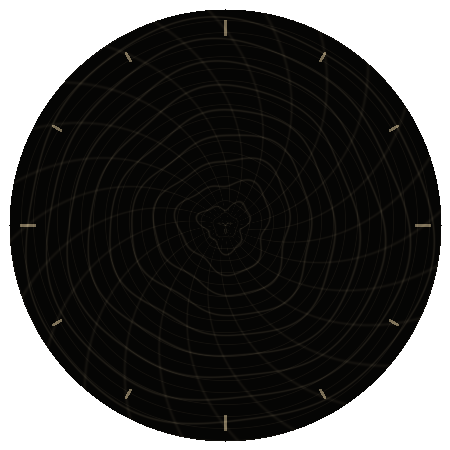
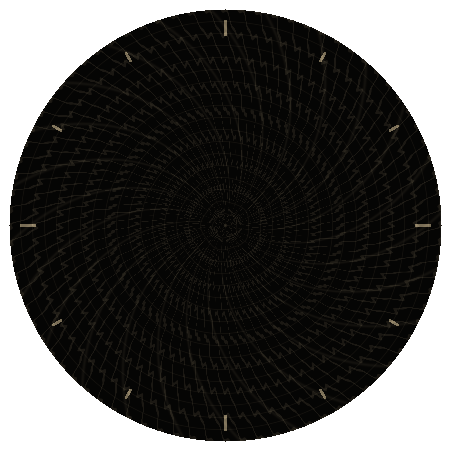
Animate radial moire through continuous plate rotation

Changed region(s): [[0.2178, 0.3422, 0.2489, 0.3733]]

diff --git a/faces/radial-moire/generate_assets.py b/faces/radial-moire/generate_assets.py
@@ -1,32 +1,53 @@
+"""Generate registered engraving and curved slit plates for the moiré face."""
+
 from pathlib import Path
+
 import numpy as np
 from PIL import Image
 
 OUT = Path(__file__).parent / "assets"
 OUT.mkdir(exist_ok=True)
 SIZE = 450
-STATES = 4
+PITCH_COUNT = 80  # One 4.5-degree rotation returns to the same registration.
 y, x = np.mgrid[:SIZE, :SIZE].astype(np.float32)
 cx = cy = SIZE / 2
 dx, dy = x - cx, y - cy
 r = np.hypot(dx, dy)
-angle = np.arctan2(dy, dx)
+angle = np.arctan2(dx, -dy)  # Clockwise from twelve o'clock.
 circle = r <= 216
-field = (r + 5.7 * np.sin(3 * angle + r / 52) + 2.1 * np.sin(7 * angle - r / 79)) / 22.5
-phase = np.mod(field, 1)
-encoded_state = np.minimum(STATES - 1, (phase * STATES).astype(np.int32))
+
+# Curved radial lines repeat exactly every 4.5 degrees, so the rotating plate
+# has no seam when its four-second cycle restarts.
+field = (
+    PITCH_COUNT * angle / (2 * np.pi)
+    + r / 23.5
+    + .17 * np.sin(PITCH_COUNT * angle + r / 48)
+    + .075 * np.sin(2 * PITCH_COUNT * angle - r / 71)
+)
+plate_field = field + .14 * np.sin(3 * angle + r / 59)
+
 
 def smooth(lo, hi, value):
     t = np.clip((value - lo) / (hi - lo), 0, 1)
     return t * t * (3 - 2 * t)
 
-def hand(degrees, length, width):
-    a = np.deg2rad(degrees)
-    sx, sy = np.sin(a), -np.cos(a)
-    along = dx * sx + dy * sy
-    across = np.abs(dx * sy - dy * sx)
+
+def engraving(value, width):
+    """Antialiased ink line around each integer contour of the field."""
+    distance = np.abs(np.mod(value + .5, 1) - .5)
+    return 1 - smooth(width - .025, width + .025, distance)
+
+
+def hand(length, width):
+    along = -dy
+    across = np.abs(dx)
     taper = width * (1 - .53 * np.maximum(0, along) / length)
-    return np.where((along >= -5) & (along <= length), 1 - smooth(taper - 1.6, taper + 1.6, across), 0)
+    return np.where(
+        (along >= -5) & (along <= length),
+        1 - smooth(taper - 1.6, taper + 1.6, across),
+        0,
+    )
+
 
 def rgba(name, red, green, blue, opacity):
     image = np.empty((SIZE, SIZE, 4), dtype=np.uint8)
@@ -36,31 +57,45 @@ def rgba(name, red, green, blue, opacity):
     image[:, :, 3] = np.clip(opacity, 0, 255).astype(np.uint8)
     Image.fromarray(image, "RGBA").save(OUT / f"{name}.png", optimize=True)
 
+
 ticks = np.zeros_like(r)
 for index in range(12):
     a = index * np.pi / 6
     px, py = np.sin(a), -np.cos(a)
     radial = dx * px + dy * py
     transverse = np.abs(dx * py - dy * px)
-    ticks = np.maximum(ticks, np.where((radial > 189) & (radial < (206 if index % 3 == 0 else 200)) & (transverse < 1.4), 1., 0.))
-etched = np.maximum(0, np.cos(2 * np.pi * field)) ** 26
+    ticks = np.maximum(
+        ticks,
+        np.where(
+            (radial > 189)
+            & (radial < (206 if index % 3 == 0 else 200))
+            & (transverse < 1.4),
+            1.,
+            0.,
+        ),
+    )
+
+etched = engraving(field, .08)
 rosette = np.maximum(0, np.cos(24 * angle + .095 * r + .25 * np.sin(3 * angle))) ** 34
 inner = np.maximum(0, np.cos(2 * np.pi * (r / 12 + .075 * np.sin(5 * angle)))) ** 28
-dial = 5 + 21 * etched + 12 * rosette + 11 * inner + 100 * ticks
+dial = 5 + 19 * etched + 12 * rosette + 11 * inner + 100 * ticks
 rgba("dial", dial * 1.14, dial * 1.03, dial * .81, np.where(circle, 255, 0))
 
-for label, length, width, movement in (("hour", 111, 13, .15), ("minute", 176, 10, 1.5)):
-    pigment = np.zeros_like(r)
-    for state in range(STATES):
-        pigment = np.where(encoded_state == state, hand(state * movement, length, width), pigment)
-    alpha = np.where(circle, pigment * 240, 0)
-    rgba(f"{label}_engraving", np.full_like(r, 249), np.full_like(r, 234), np.full_like(r, 199), alpha)
+# The silhouette is stored as separate curved ink contours. Only the overlap
+# with the moving slit plate reveals the interference pointer.
+ink = engraving(field, .24)
+slits = engraving(plate_field, .25)
+for label, length, width in (("hour", 111, 13), ("minute", 176, 10)):
+    silhouette = hand(length, width)
+    alpha = np.where(circle, silhouette * (23 + 222 * ink), 0)
+    rgba(f"{label}_engraving", 249, 234, 199, alpha)
 
-for state in range(STATES):
-    relative = np.mod(phase - state / STATES, 1)
-    opening = 1 - smooth(.22, .25, relative)
-    rgba(f"slit_{state}", np.zeros_like(r), np.zeros_like(r), np.zeros_like(r), np.where(circle, opening * 255, 0))
-    highlight = np.exp(-((relative - .245) / .029) ** 2)
-    rgba(f"plate_{state}", np.full_like(r, 122), np.full_like(r, 104), np.full_like(r, 77), np.where(circle, highlight * 67, 0))
+# Residual translucency preserves legibility at the trough of the cycle.
+rgba("slit", 0, 0, 0, np.where(circle, 40 + 215 * slits, 0))
+plate_light = engraving(plate_field + .43, .065)
+rgba("plate", 122, 104, 77, np.where(circle & (r > 38), plate_light * 52, 0))
 
-print(f"Generated {len(list(OUT.glob('*.png')))} transparent resources in {OUT}")
+for old in (*OUT.glob("plate_[0-9].png"), *OUT.glob("slit_[0-9].png")):
+    old.unlink()
+
+print(f"Generated {len(list(OUT.glob('*.png')))} resources in {OUT}")

diff --git a/faces/radial-moire/notes.md b/faces/radial-moire/notes.md
@@ -1,9 +1,26 @@
 # Radial moiré
 
-The hour and minute pointers are not solid watch-hand graphics. Each engraving stores four small angular offsets, interlaced into curved radial bands. The transparent slit mask for the current phase exposes one set of slices. WFF rotates the entire interaction around the dial pivot to follow the current time, compensating for the small encoded angular offset. The visible plate advances on each second.
+Hour and minute pointers appear where a stationary ink engraving for each
+pointer meets a moving transparent slit plate. The engraving and plate share
+a curved radial grating. The source image contains only etched lines within
+each pointer's silhouette; WFF composes it with a separately rotated `MASK`
+group. No pre-rendered hand frames or opacity switching remain.
 
-The radial field uses `r + 5.7 sin(3θ + r/52) + 2.1 sin(7θ - r/79)` with a 22.5-unit pitch. These non-linear arcs preserve the printed-plate mechanism of barrier-grid animation. The hand segments appear only after two resources are composed by a WFF `MASK` group.
+The plate turns clockwise at 1.125 degrees per second, driven by
+`[SECOND_MILLISECOND]`. Its 80-fold angular symmetry makes one 4.5-degree
+registration cycle repeat every four seconds, including across the minute
+boundary. A faint engraving on the dial follows the same plate orientation.
+The hand substrates rotate to the actual time, while their slit masks
+counter-rotate to remain aligned with the globally moving plate. Residual
+translucency prevents a hand from vanishing at an interference trough.
 
-The phase change is deliberately stepped at 1 Hz. Evaluate legibility and aliasing at Pixel Watch resolution. Promotion enables the official WFF validator and installable APK pipeline; physical watch rendering remains to be checked.
+The field combines 80 angular cycles with a radial progression and two
+nonlinear ripples. Slightly different curvature in the moving plate produces
+traveling beats where its lines meet the ink. The whole plate interaction
+comes from two static PNG resources and WFF transforms.
 
-Regenerate the PNG assets with `python3 faces/radial-moire/generate_assets.py` (NumPy and Pillow).
+Check the browser preview with **Animate** enabled and the Pixel Watch in
+interactive mode. Millisecond-driven rendering costs more battery than the
+old 1 Hz stepping; evaluate performance on the physical watch. Ambient mode
+hides the decorative moving plate. Regenerate assets with
+`python3 faces/radial-moire/generate_assets.py` (NumPy and Pillow).
